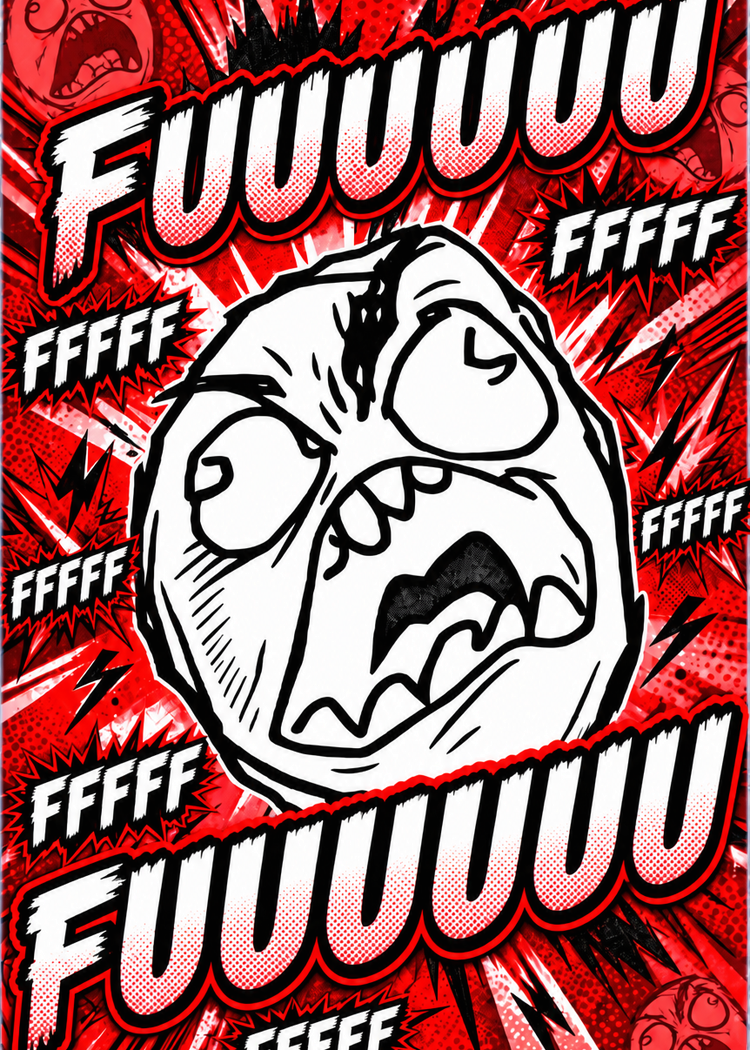
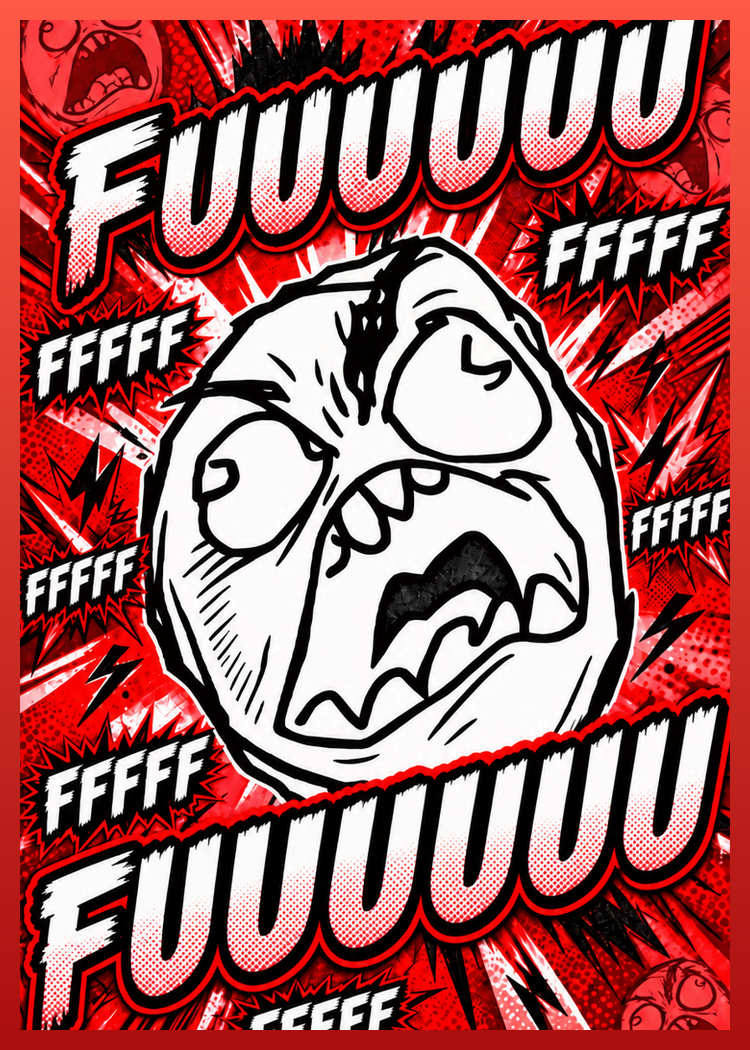
Add matching-color borders to 5 more protectors
Same 20px gradient-border technique as Pokebola Morada/Charmander/
Squirtle/Bulbasaur, colors picked to match each design:
- Pikachu Sorprendido: yellow (Pikachu's own color)
- Sasuke: deep red to near-black (Sharingan/Uchiha clan red)
- Six Seven / Trollface: blue, matching their shared comic-blue art
  (kept the two shades slightly distinct so they don't look identical
  sitting next to each other in the shop grid)
- Fuuuu: red, matching its own comic-red art

All 5 were already clean/artifact-free crops, so this only re-composited
the existing image through fit-cover into a smaller inner box -- no
re-cropping from source needed. Bumped cache-busting versions.

diff --git a/ui.js b/ui.js
@@ -88,16 +88,16 @@ var CARD_BACK_OPTIONS = [
   { id: 'protector_pokebola_morada', name: 'Poké Ball Morada', img: 'Cartas/Protector_PokebolaMorada.png?v=4', cost: PROTECTOR_COST },
   { id: 'protector_fantasma', name: 'Fantasma', img: 'Cartas/Protector_Fantasma.png?v=2', cost: PROTECTOR_COST },
   { id: 'protector_perona', name: 'Perona', img: 'Cartas/Protector_Perona.png?v=2', cost: PROTECTOR_COST },
-  { id: 'protector_sasuke', name: 'Sasuke', img: 'Cartas/Protector_Sasuke.png?v=2', cost: PROTECTOR_COST },
+  { id: 'protector_sasuke', name: 'Sasuke', img: 'Cartas/Protector_Sasuke.png?v=3', cost: PROTECTOR_COST },
   { id: 'protector_squirtle', name: 'Squirtle', img: 'Cartas/Protector_Squirtle.png?v=3', cost: PROTECTOR_COST },
   { id: 'protector_charmander', name: 'Charmander', img: 'Cartas/Protector_Charmander.png?v=3', cost: PROTECTOR_COST },
   { id: 'protector_bulbasaur', name: 'Bulbasaur', img: 'Cartas/Protector_Bulbasaur.png?v=3', cost: PROTECTOR_COST },
   { id: 'protector_messi', name: 'Messi', img: 'Cartas/Protector_Messi.png?v=2', cost: PROTECTOR_COST },
   { id: 'protector_ronaldo', name: 'Ronaldo', img: 'Cartas/Protector_Ronaldo.png?v=2', cost: PROTECTOR_COST },
-  { id: 'protector_pikachu_sorprendido', name: 'Pikachu Sorprendido', img: 'Cartas/Protector_PikachuSorprendido.png?v=2', cost: PROTECTOR_COST },
-  { id: 'protector_six_seven', name: 'Six Seven', img: 'Cartas/Protector_SixSeven.png', cost: PROTECTOR_COST },
-  { id: 'protector_trollface', name: 'Trollface', img: 'Cartas/Protector_TrollFace.png', cost: PROTECTOR_COST },
-  { id: 'protector_fuuuu', name: 'Fuuuu', img: 'Cartas/Protector_Fuuuu.png', cost: PROTECTOR_COST }
+  { id: 'protector_pikachu_sorprendido', name: 'Pikachu Sorprendido', img: 'Cartas/Protector_PikachuSorprendido.png?v=3', cost: PROTECTOR_COST },
+  { id: 'protector_six_seven', name: 'Six Seven', img: 'Cartas/Protector_SixSeven.png?v=2', cost: PROTECTOR_COST },
+  { id: 'protector_trollface', name: 'Trollface', img: 'Cartas/Protector_TrollFace.png?v=2', cost: PROTECTOR_COST },
+  { id: 'protector_fuuuu', name: 'Fuuuu', img: 'Cartas/Protector_Fuuuu.png?v=2', cost: PROTECTOR_COST }
 ];
 var DEFAULT_CARD_BACK_ID = 'clasico';
 
